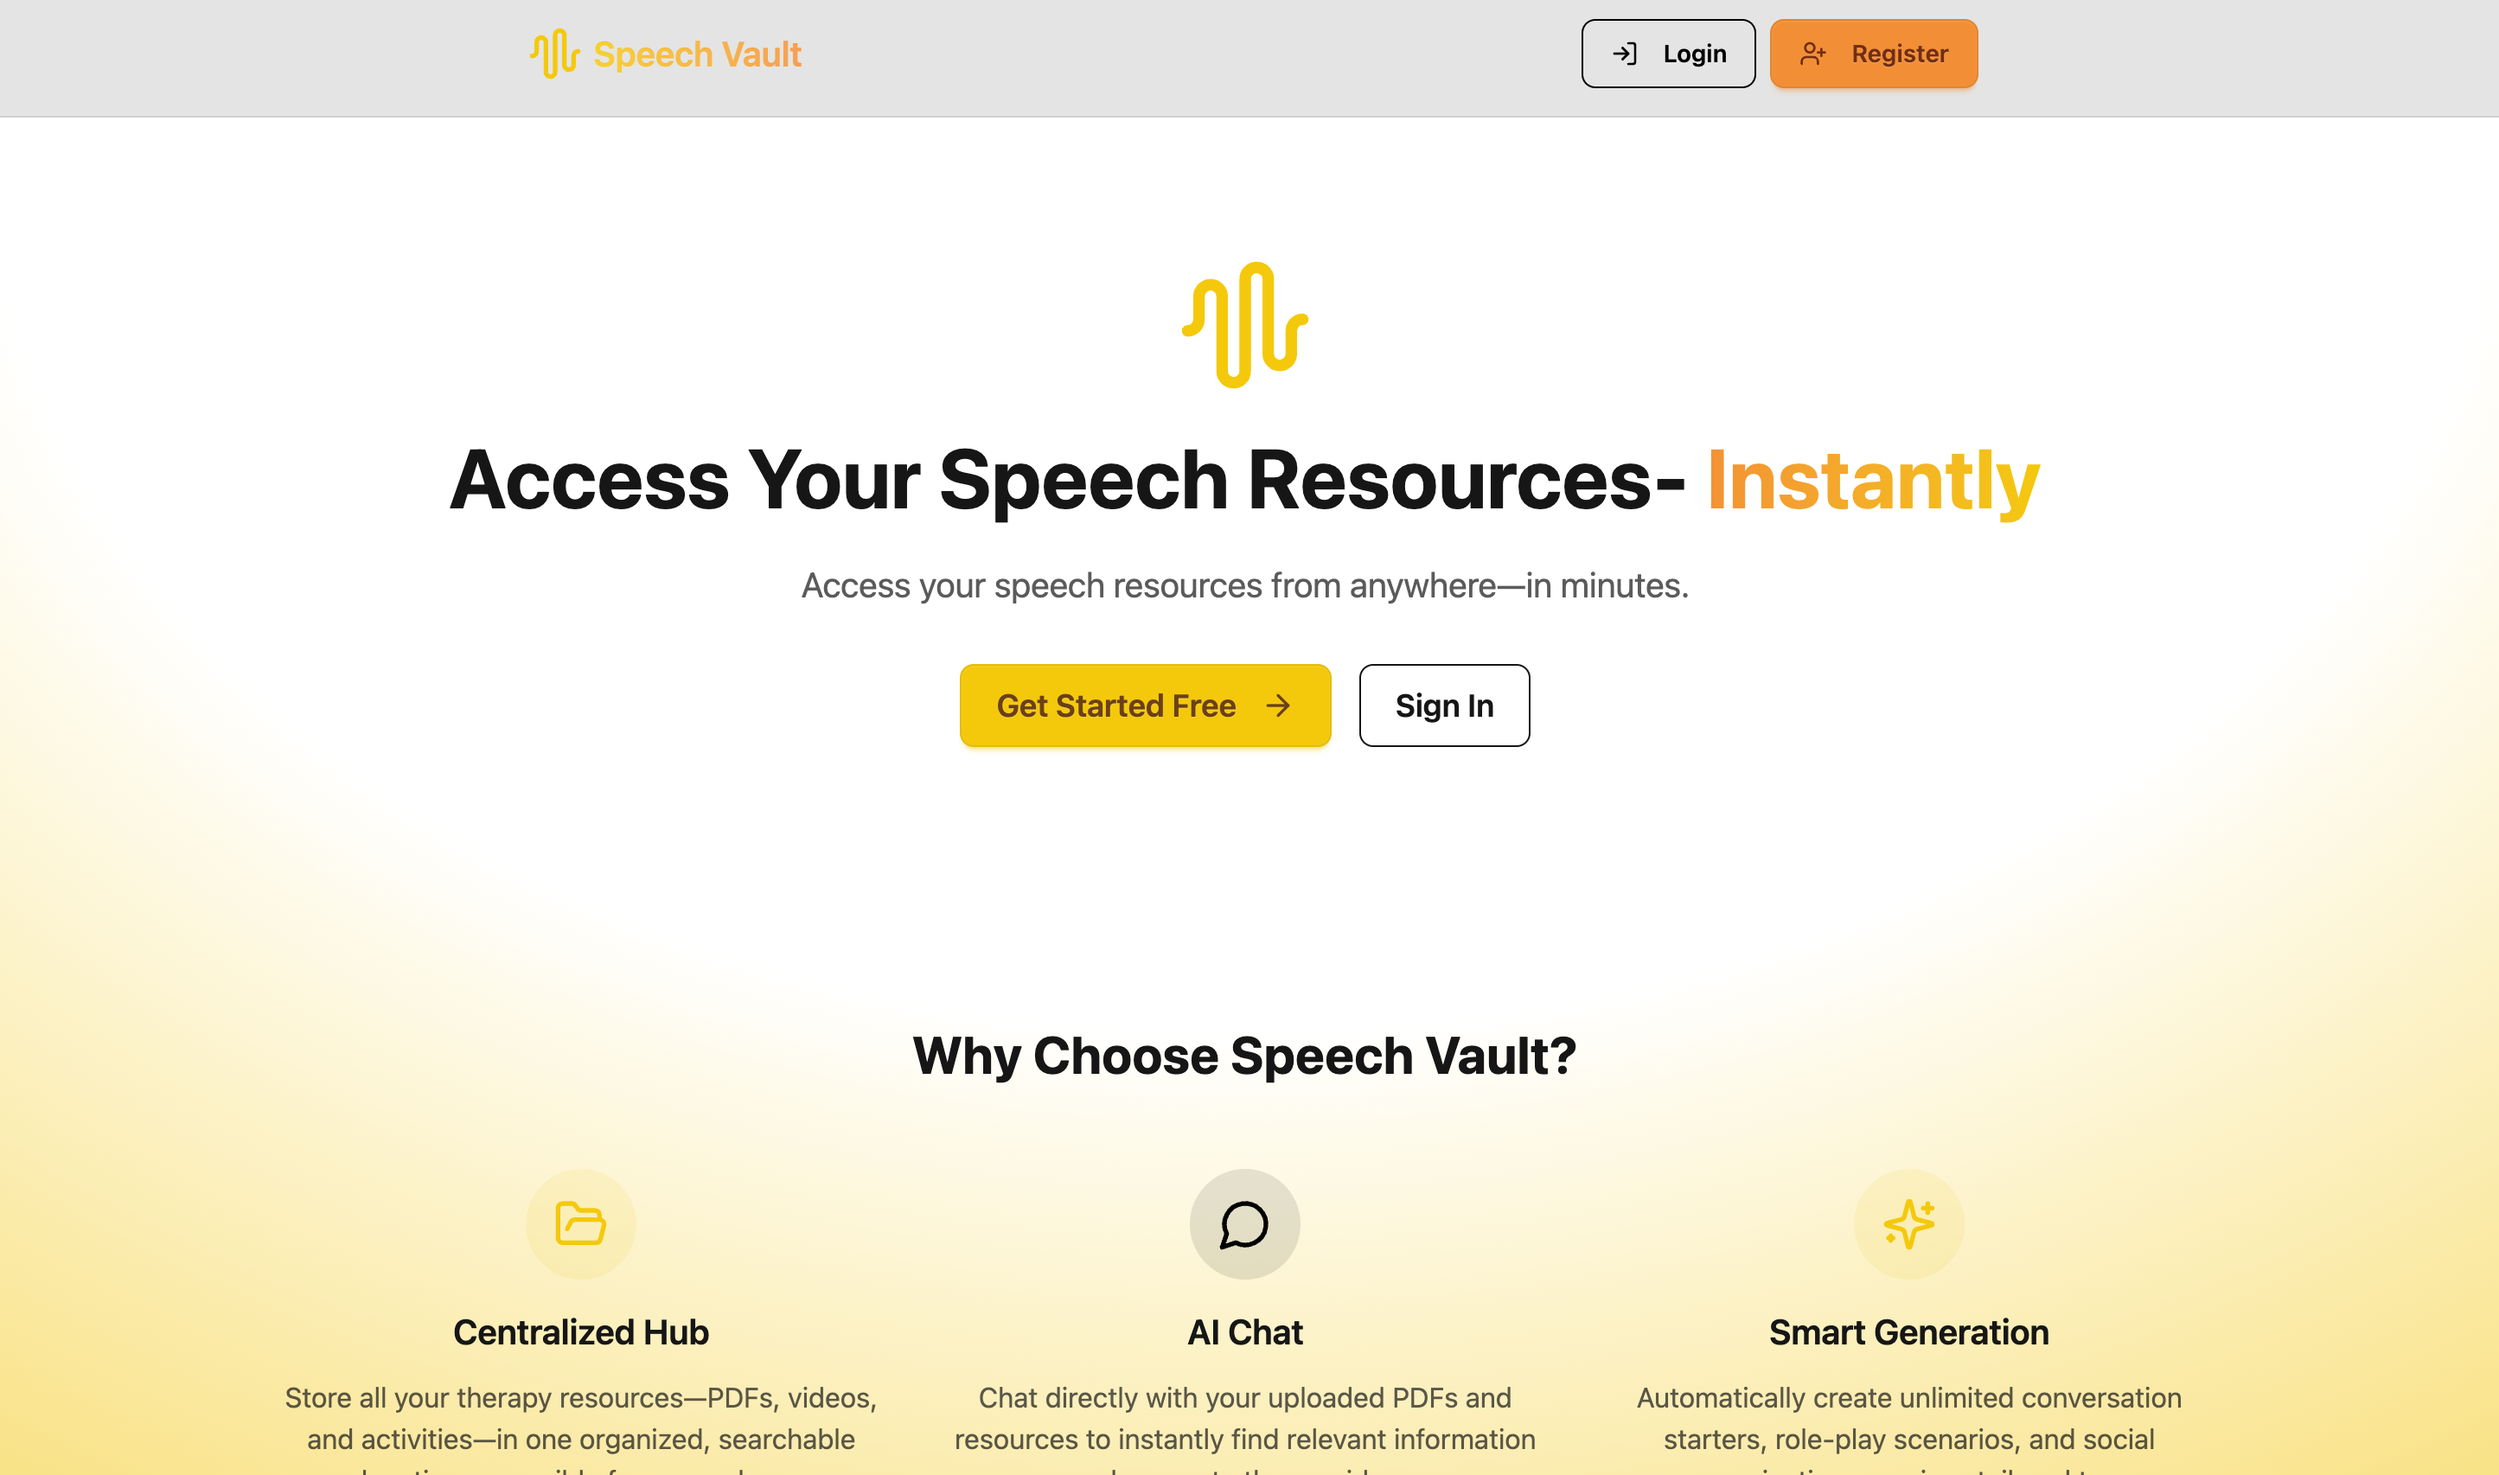
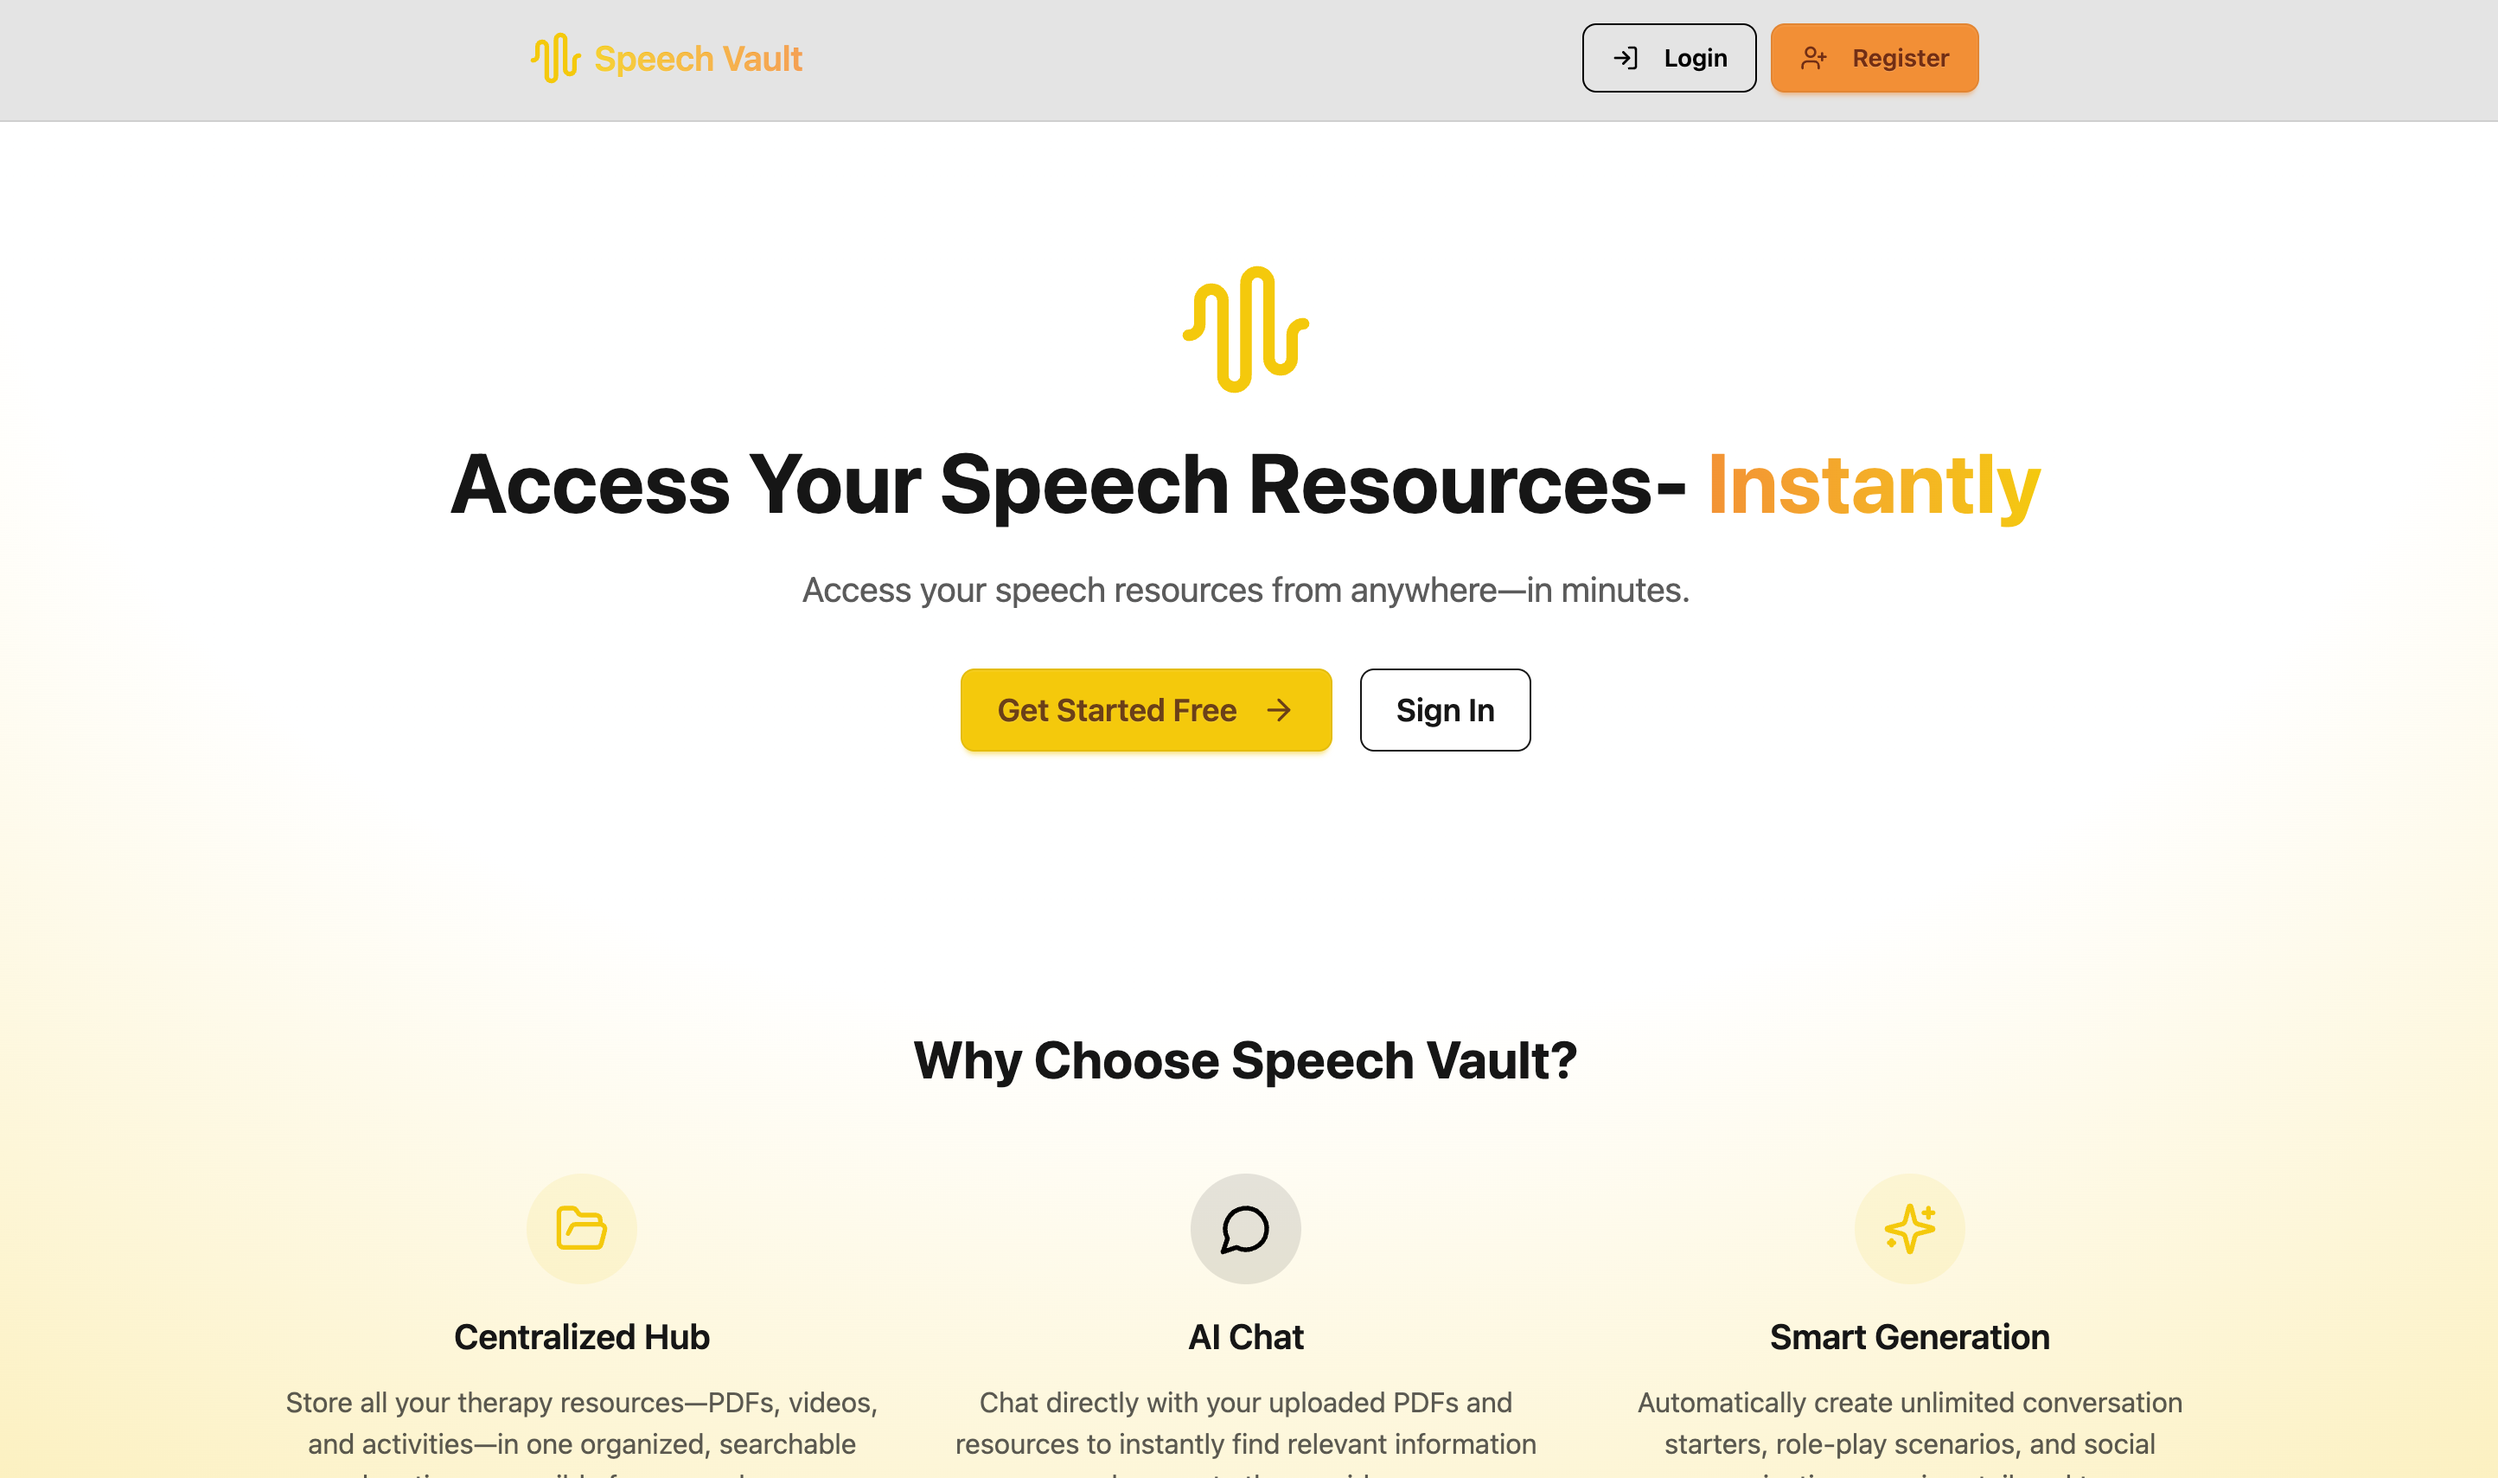
styling: style the radial gradient

diff --git a/frontend/src/index.css b/frontend/src/index.css
@@ -9,11 +9,11 @@
 }
 
 [data-theme="dark"] {
-  --bg-gradient: radial-gradient(125% 150% at 50% 10%, #0f172a 40%, #1e293b 100%);
+  --bg-gradient: radial-gradient(125% 150% at 50% 10%, #0f172a 40%, #1e293b 160%);
 }
 
 [data-theme="bumblebee"] {
-  --bg-gradient: radial-gradient(125% 150% at 50% 10%, #FFFF 40%, #FCC700 100%);
+  --bg-gradient: radial-gradient(125% 150% at 50% 10%, #FFFF 40%, #FCC700 160%);
 }
 
 .dynamic-bg {
